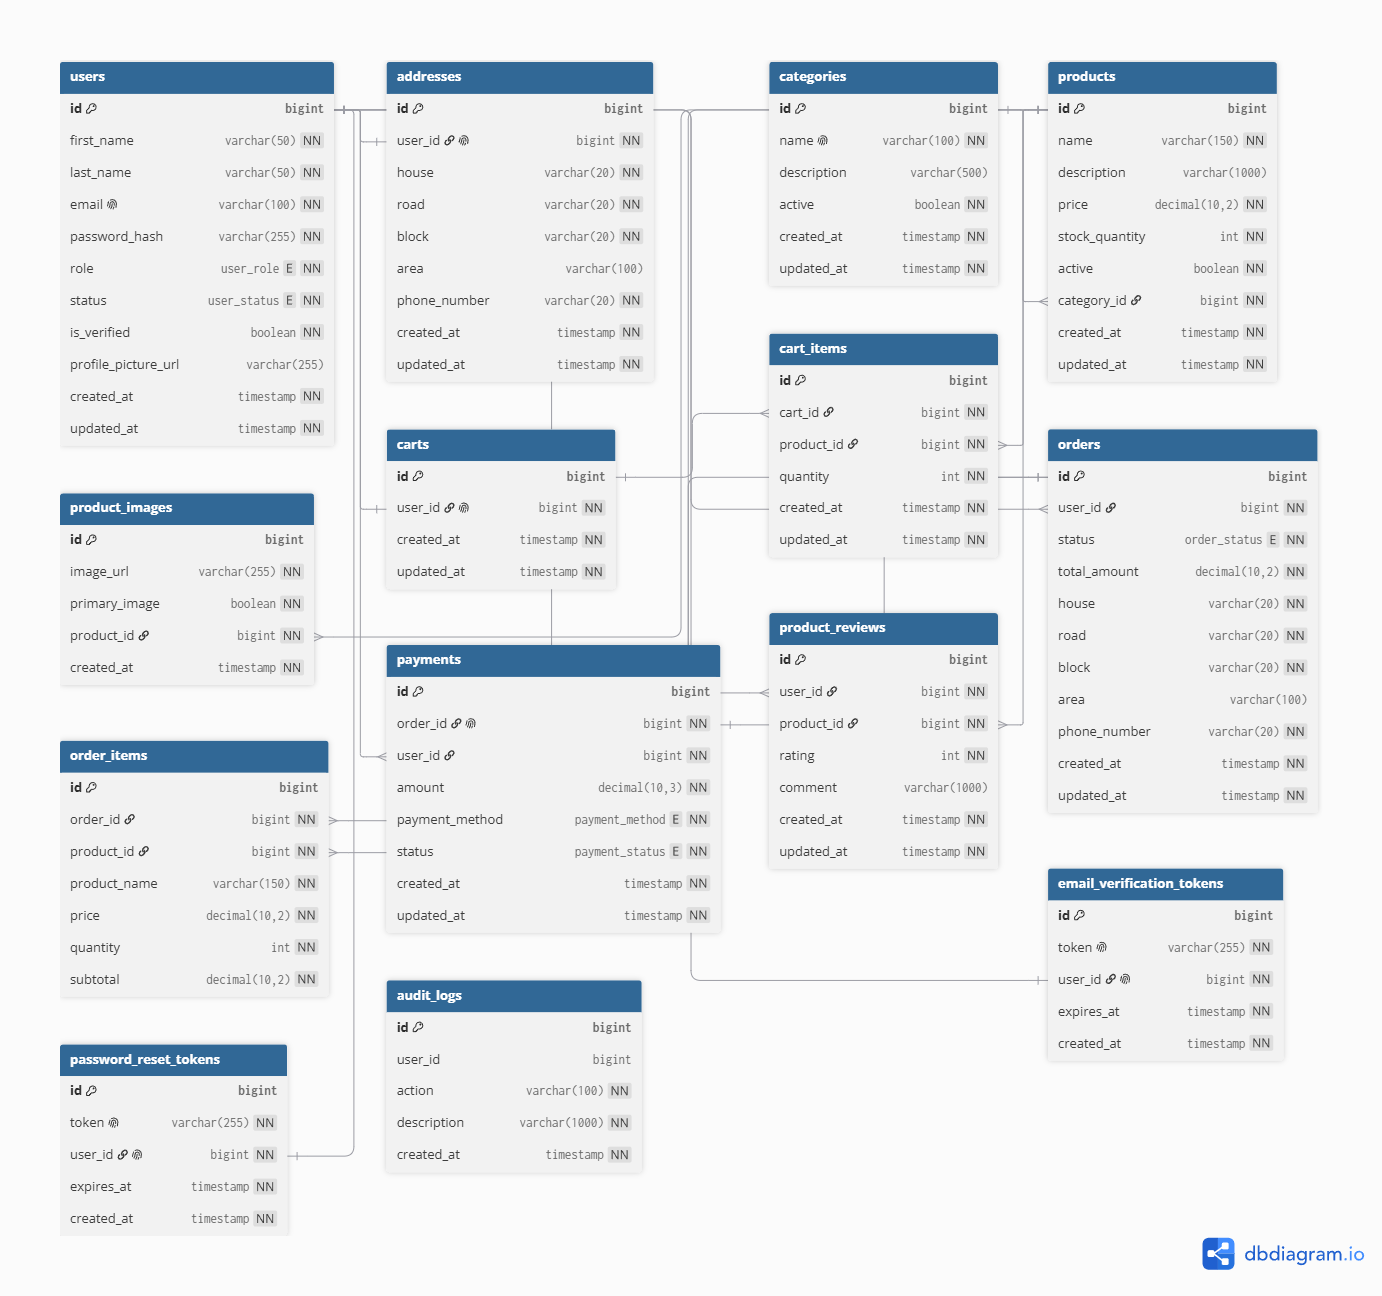
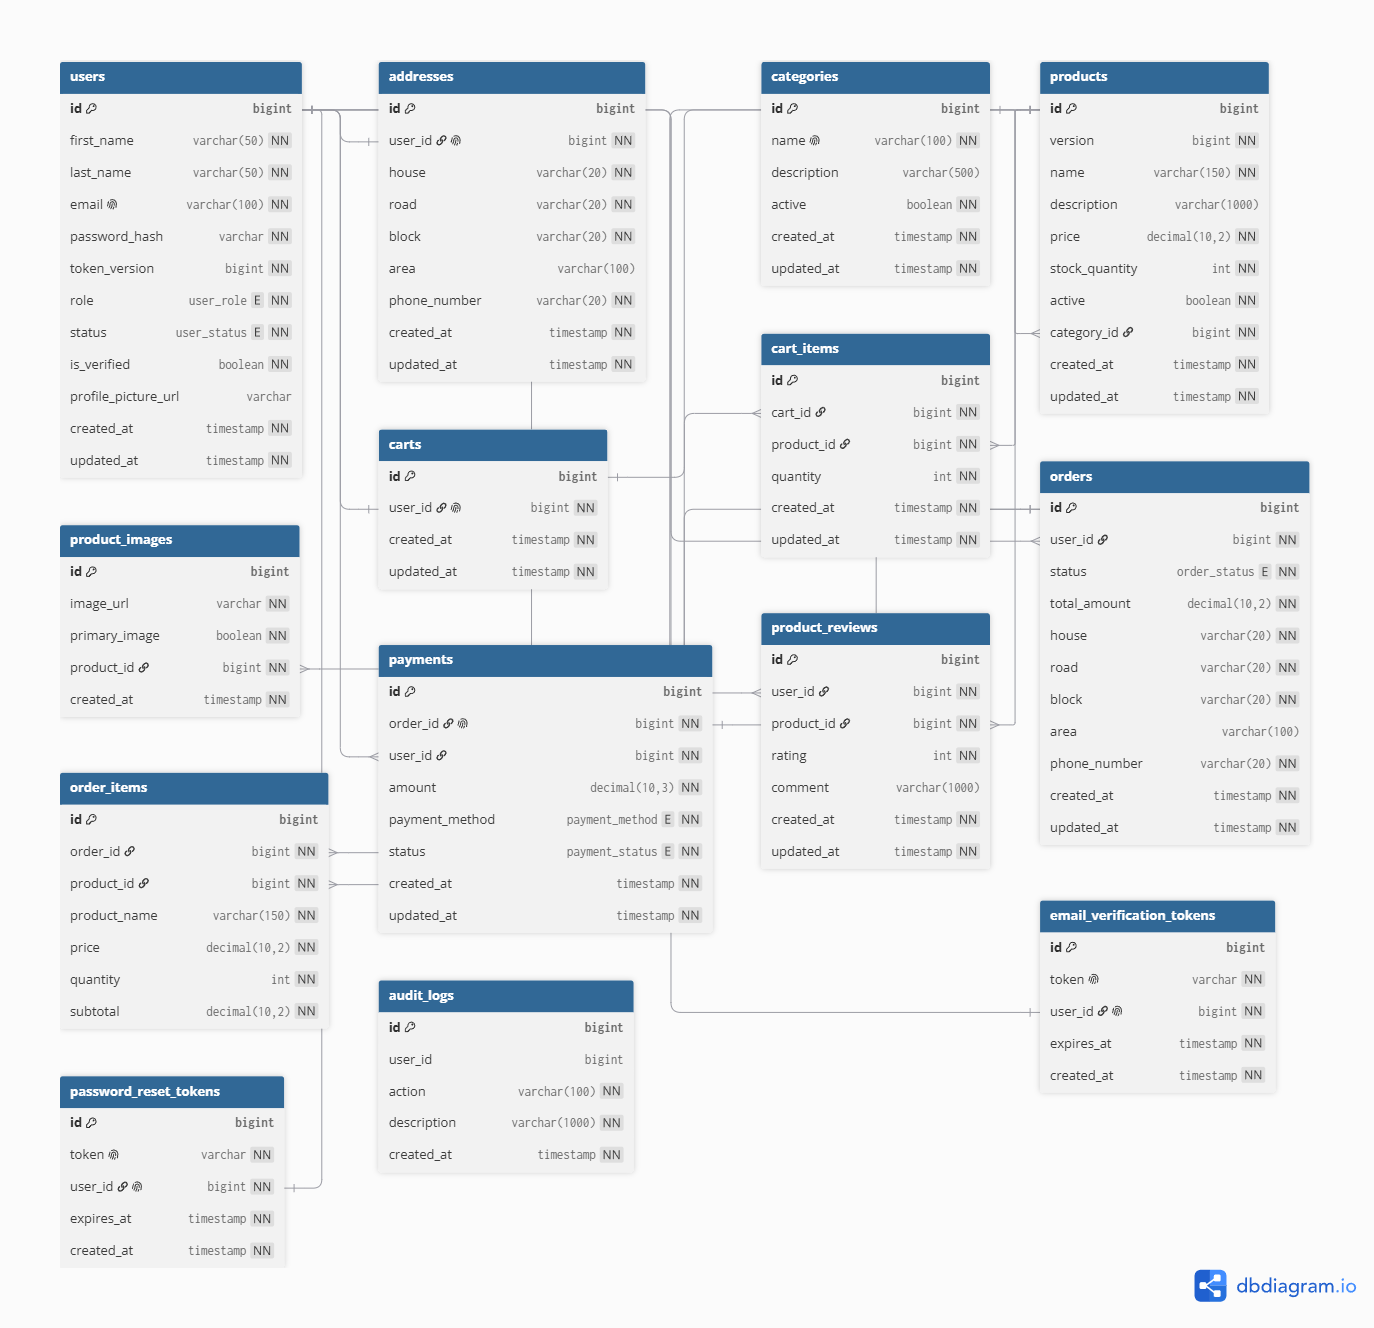
erd update

diff --git a/src/main/java/com/ga/store/controller/AuthController.java b/src/main/java/com/ga/store/controller/AuthController.java
@@ -286,28 +286,25 @@ public class AuthController {
 
     /**
      * Requests a password reset email.
+     * The response does not reveal whether the account exists.
      *
      * @param httpRequest HTTP request used for rate limiting
      * @param request account email
-     * @return request confirmation
+     * @return generic request confirmation
      */
     @PostMapping("/forgot-password")
     @Operation(
             summary = "Request password reset",
-            description = "Creates a password reset request and schedules a reset link to the user's email."
+            description = "Schedules a password reset email when an account exists for the supplied email."
     )
     @ApiResponses({
             @ApiResponse(
                     responseCode = "200",
-                    description = "Password reset request created"
+                    description = "Password reset request accepted"
             ),
             @ApiResponse(
                     responseCode = "400",
                     description = "Invalid request information"
-            ),
-            @ApiResponse(
-                    responseCode = "404",
-                    description = "User not found"
             ),
             @ApiResponse(
                     responseCode = "429",
@@ -326,13 +323,18 @@ public class AuthController {
                 10
         );
 
+        rateLimitService.checkLimit(
+                "forgot-password-email:" + request.getEmail(),
+                3,
+                10
+        );
+
         passwordResetService.requestPasswordReset(
                 request.getEmail()
         );
 
-        return new ResponseEntity<>(
-                "Password reset request created",
-                HttpStatus.OK
+        return ResponseEntity.ok(
+                "If an account exists with this email, a password reset email will be sent"
         );
     }
 

diff --git a/src/main/java/com/ga/store/service/PasswordResetService.java b/src/main/java/com/ga/store/service/PasswordResetService.java
@@ -11,6 +11,7 @@ import org.springframework.security.crypto.password.PasswordEncoder;
 import org.springframework.stereotype.Service;
 
 import java.time.LocalDateTime;
+import java.util.Optional;
 import java.util.UUID;
 
 /**
@@ -42,18 +43,22 @@ public class PasswordResetService {
     /**
      * Creates a password reset token and schedules email delivery
      * after the database transaction commits.
+     * Unknown email addresses are ignored so the API does not
+     * reveal whether an account exists.
      *
      * @param email account email
-     * @return created reset token
      */
     @Transactional
-    public PasswordResetToken requestPasswordReset(String email) {
+    public void requestPasswordReset(String email) {
 
-        User user = userRepository.findByEmailForUpdate(email)
-                .orElseThrow(() ->
-                        new InformationNotFoundException(
-                                "User with this email not found"
-                        ));
+        Optional<User> optionalUser =
+                userRepository.findByEmailForUpdate(email);
+
+        if (optionalUser.isEmpty()) {
+            return;
+        }
+
+        User user = optionalUser.get();
 
         PasswordResetToken resetToken =
                 createPasswordResetToken(user);
@@ -62,8 +67,6 @@ public class PasswordResetService {
                 user.getEmail(),
                 resetToken.getToken()
         );
-
-        return resetToken;
     }
 
     /**
